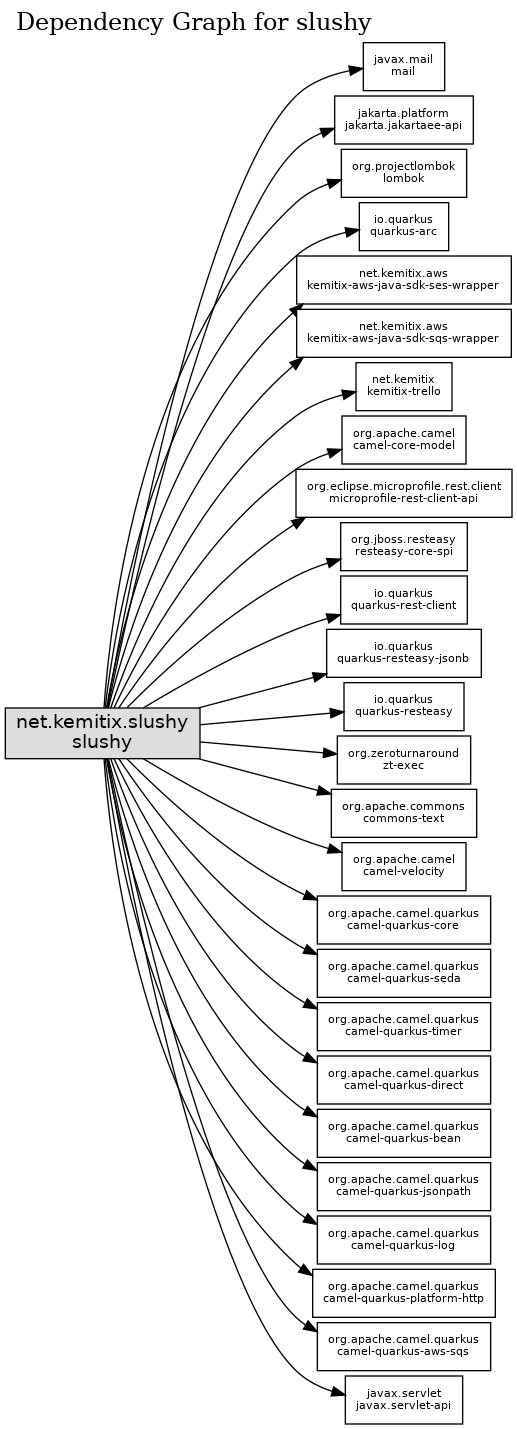
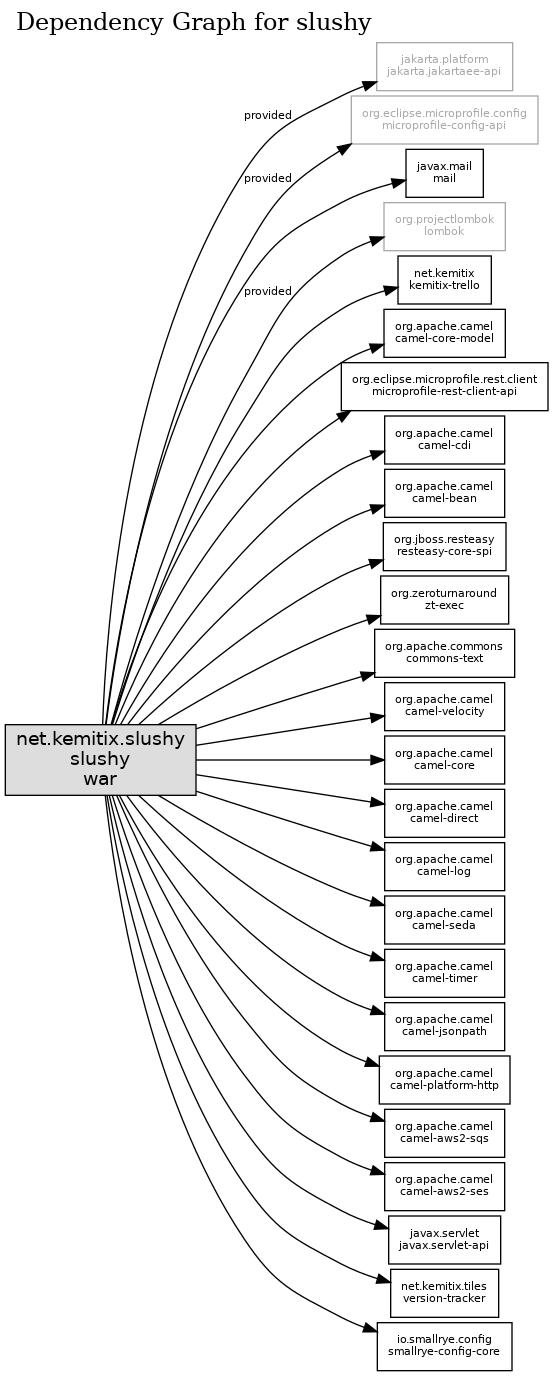
Update README following v4 changes (#419)
* README: add requirements and workflow sections

* Upgrade reactor-graph image

* Update README.md

Changed region(s): [[0.0, 0.0, 1.0, 1.0], [0.5571, 0.4375, 0.588, 0.4688], [0.2785, 0.25, 0.3095, 0.2812]]

diff --git a/README.md b/README.md
@@ -6,7 +6,7 @@ https://img.shields.io/github/v/release/kemitix/slushy?style=for-the-badge)
 ![GitHub Release Date](
 https://img.shields.io/github/release-date/kemitix/slushy?style=for-the-badge)
 
-# Configuration
+## Configuration
 
 Define the following environment variables to configure Slushy:
 
@@ -21,6 +21,50 @@ Define the following environment variables to configure Slushy:
 * `SLUSHY_STATUS_LIST` - the Trello List to report the status into
 * `SLUSHY_STATUS_CARD` - the Trello Card to report the status into
 
-# Structure/Dependencies
+## Requirements
+
+- Docker
+- Trello Account
+- Trello Board
+
+The Trello Board requires the following lists, although the names can be changed
+in the `src/main/resources/META-INF/microprofile-config.properties` file:
+
+- Inbox
+- Send to Reader
+- Slush
+- Reject
+- Rejected
+- Hold
+- Held
+- Withdraw
+
+## Workflow
+
+The following is a summary, but details are customisable by updating the various `slushy.*.routing-slip` entries in the `microprofile-config.properties` file.
+
+New submissions are added to the _Inbox_ list as a Card using the Trello Board's custom `send to board` email address.
+The card is validated and a precis insert at the start of the Card's description.
+The Card, if valid, and email is sent to the author, and it is then moved to the _Send to Reader_ list.
+For Cards that fail validation, an email is sent to the author and the Card is moved to the _Rejected_ list.
+
+Cards are taken from the _Send to Reader_ list and converted, using Calibre, into Mobi format and sent to the `SLUSHY_READER` email address, presumably the address for a Kindle device.
+The Card is then moved to the _Slush_ list.
+The setting `slushy.reader.max-size` within the properties file determines the maximum number of cards that will be added to the _Slush_ list at any one time.
+If there is no space in the _Slush_ list, then no cards are taken from the _Send to Reader_ list until there is.
+
+Cards added to the _Reject_ list will, after they have not been further updated for `slushy.reject.required-age-hours` hours, be moved to the _Rejected_ list after sending an email to the author.
+This is considered 'resting' and allows for mistakes and changing of minds.
+
+Similarly, cards added to the _Hold_ list will be moved to the _Held_ list.
+Again, after `slushy.hold.required-age-hours` hours, and then the sending of an email.
+
+Cards added to the _Withdraw_ list are archived from the Trello Board after sending a confirmation email to the author.
+
+The Trello Board can have additional lists to manage the cards.
+Those additional lists are ignored by Slushy, unless they are included in `slushy.multisub.lists` to count against multiple submissions.
+For example: _To Re-read_
+
+## Structure/Dependencies
 
 ![Dependency Graph](docs/images/reactor-graph.png)
